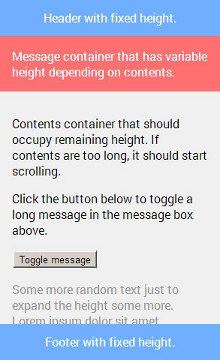
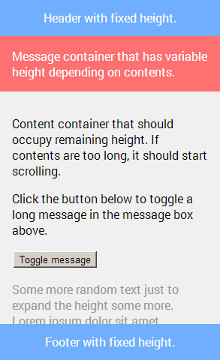
Added a discussion. Some fix on authorship.

diff --git a/_includes/themes/initialxy/post.html b/_includes/themes/initialxy/post.html
@@ -9,9 +9,9 @@
         <img class="avatar" src="https://s.gravatar.com/avatar/{{ site.authors[page.author].gravatar }}?s=80" />
         <small class="author">
             By <a href="{{ site.authors[page.author].about }}">{{ site.authors[page.author].display_name }}</a>
-            <a class="authorship" href="{{ site.authors[page.author].googleplus }}?rel=author">Authorship</a>
+            <a class="authorship" href="{{ site.authors[page.author].googleplus }}?rel=author"> </a>
         </small>
-        <small class="date">{{ page.date | date: "%B %-d %Y" }}</small>
+        <small class="updated">{{ page.date | date: "%B %-d %Y" }}</small>
     </div>
 
     {{ content }}

diff --git a/index.html b/index.html
@@ -16,7 +16,7 @@ title: Brain, what do you want to do tonight?
                 <a href="{{ BASE_PATH }}{{ post.url }}">{{ post.title }}</a>
             </h3>
             <small class="author">By <a href="{{ site.authors[post.author].about }}">{{ site.authors[post.author].display_name }}</a></small>
-            <small class="date">{{ post.date | date: "%B %-d %Y" }}</small>
+            <small class="updated">{{ post.date | date: "%B %-d %Y" }}</small>
 
             <p class="excerpt">{{ post.excerpt | markdownify }}</p>
             <a href="{{ BASE_PATH }}{{ post.url }}">Read More</a>

diff --git a/static/files/2013-11-24-flexbox-for-mobile-web-layout/flexbox/index.html b/static/files/2013-11-24-flexbox-for-mobile-web-layout/flexbox/index.html
@@ -26,7 +26,7 @@
 
             <div class="content">
                 <p>
-                    Contents container that should occupy remaining height.
+                    Content container that should occupy remaining height.
                     If contents are too long, it should start scrolling.
                 </p>
                 <p>

diff --git a/_posts/2013-11-24-flexbox-for-mobile-web-layout.md b/_posts/2013-11-24-flexbox-for-mobile-web-layout.md
@@ -8,12 +8,12 @@ tags: [CSS3, LESS, LESS Mixin, Mobile Web, Demo]
 ---
 {% include JB/setup %}
 
-I was reading about Flexbox earlier from [this article on CSS-Tricks](http://css-tricks.com/snippets/css/a-guide-to-flexbox/) and I found it extremely useful for a typical mobile web layout that you can see in below. The key feature from Flexbox that I found particularly useful is the ability to create containers that can **fill the remaining space**, which until recently, was achieved using JavaScript measuring and resizing on many mobile web framesworks (such as [Dojo](https://dojotoolkit.org/reference-guide/1.9/dojox/mobile/ScrollablePane.html)). The drawback with this is that not only is it slow and irresponsive, but also unable to detect size change of surrounding elements, making software far more complex. So I looked up the availability of Flexbox on [caniuse.com](http://caniuse.com/flexbox) and pleasantly found it to be quite ready (at least in my personal opinion). I managed to implement a Flexbox based layout for the mobile web app I was working on and tested it on my arsenal of test devices. In this article I'd like to share my results and discuss the differences between each mobile browser.
+I was reading about Flexbox earlier from [this article on CSS-Tricks](http://css-tricks.com/snippets/css/a-guide-to-flexbox/) and I found it extremely useful for a typical mobile web layout that you can see in below. The key feature from Flexbox that I found particularly useful is the ability to create containers that can **fill the remaining space**, which until recently, was achieved using JavaScript measuring and resizing on many mobile web framesworks (such as [Dojo](https://dojotoolkit.org/reference-guide/1.9/dojox/mobile/ScrollablePane.html)). The drawback with this JavaScript solution is that not only is it slow and irresponsive, but also unable to detect size change of surrounding elements, making software far more complex. So I looked up the availability of Flexbox on [caniuse.com](http://caniuse.com/flexbox) and pleasantly found it to be quite ready (at least in my personal opinion). I managed to implement a Flexbox based layout for a mobile web app I was working on and tested it on my arsenal of test devices. In this article I'd like to share my results and discuss the differences between each mobile browser. You may be aware that there are alternative mobile web layouts that are much more popular. I will discuss these near the end of this article.
 
 ![Flexbox layout](/static/images/2013-11-24-flexbox-for-mobile-web-layout/layout.jpg)
 <!--more-->
 
-The number one reason why I am so fond of Flexbox when it comes to moble web layout is because it can be used to make content container **expand to fill remaining space**, which has always been a challenge with CSS previously. (If contents are too long, content container should be scrollable, which I will cover in another article.) `display: block;` does not expand height, and `display: table;` requires many more wrappers and has difficulty creating a row that **fit variable content size** (see message container from above layout). I've been solutions involving JavaScript measurements on _window resize_ event, which, needless to say, has its own set of problems. This is where Flexbox comes in for rescue. First of all, I'd like to clarify that this whole article revolves around creating a layout similar to the one shown above, which covers vast majority of mobile web layouts. I'm not trying to create generic Flexbox mixins. (In case you ask, no, [Compass' Flexbox mixins](http://compass-style.org/reference/compass/css3/box/) don't work so well on mobile devices. I've tested them.)
+The number one reason why I am so fond of Flexbox when it comes to moble web layout is because it can be used to make content container **expand to fill remaining space**, which has always been a challenge with CSS previously. (If contents are too long, content container should be scrollable, which I will cover in another article.) `display: block;` does not expand height, and `display: table;` requires many more wrappers and has difficulty creating a row that **fit variable content size** (see message container from above layout). I've been solutions involving JavaScript measurements on `resize` event, which, needless to say, has its own set of problems. This is where Flexbox comes in for rescue. First of all, I'd like to clarify that this whole article revolves around creating a layout similar to the one shown above, which covers vast majority of mobile web layouts. I'm not trying to create generic Flexbox mixins. (In case you ask, no, [Compass' Flexbox mixins](http://compass-style.org/reference/compass/css3/box/) don't work so well on mobile devices. I've tested them.)
 
 Before we begin, please read [this article on CSS-Tricks](http://css-tricks.com/snippets/css/a-guide-to-flexbox/), which covers the concepts of Flexbox. This article assume you fundamental understanding of Flexbox. Now let's get started! The main concept for the above layout is to have a main container that has:
 
@@ -61,7 +61,7 @@ Content container needs to have:
 
 Notice that content container no longer has `flex-shrink: 1;`, `flex-basis: 0;` properties. `-webkit-box-flex: 1;` covers both grow and shrink behaviours.
 
-### Put Everything Together
+### Putting Everything Together
 
 Let's write some [LESS](http://lesscss.org/) mixins to put everything together! (I'm pretty sure you can easily rewrite the followings as [SASS](http://sass-lang.com/) mixins.)
 
@@ -102,3 +102,20 @@ Let's write some [LESS](http://lesscss.org/) mixins to put everything together! 
     }
 
 All you have to do now is to apply `.flex_parent` to your main container and expand the mixin `.flex(1, 1, 0);` in your content container's styles. You can see them all in action in this [demo](/static/files/2013-11-24-flexbox-for-mobile-web-layout/flexbox/).
+
+### Popular Alternatives
+
+If you've been a mobile web developer for a long time, you are probably aware of some of the more popular layouts. Currently the most commonly used one is to apply `position: fixed;` for header or footer, and have contents scroll with page body. Then add margin or padding that's equal to the constant height of header or footer. This is a perfectly fine approach and is more backward compatible. (As far as `position: fixed;` goes, which was MIA from mobile web browsers in the earlier years.) I have no objection to this approach as long as your requirements are fine with it. However while we are here, let's compare the differences.
+
+Pros:
+* More platform backward compatible. No dependencies on scrollable container. (Again, I will discuss this in another article.) No dependencies on Flexbox, but Flexbox support goes a little further than `position: fixed` support, so that's not really comparable as a pro.
+* Somewhat more efficient, as Flexbox has much more sophisticated size calculations.
+
+Cons:
+* Items above and below contents must have constant size, otherwise it gets really funky (could involve JavaScript).
+* Only one area is scrollable. If you are going to create a two-pane layout for tablet or slide-in menu for phone, you will have to create the secondary scrollable area with `position: fixed;` and make it scrollable with either JavaScript based scroll or native scroll using `overflow: scroll;` combined with `-webkit-overflow-scrolling: touch;` (which is also used with the Flexbox approach).
+* If you are building a [single-page application](http://en.wikipedia.org/wiki/Single-page_application), page transition could get **really funky** (speaking from my experience with hacking around [jQuery Mobile](http://jquerymobile.com/demos/1.2.0/docs/pages/page-transitions.html)), and you may have limited options.
+
+Another approach to mobile web layout dates even further back. You'd simply have footer and header at beginning and end of body. This approach obviously is the most primitive and have the most backward compatibility (because `position: fixed;` was MIA for long time). The obvious drawback is that header, footer and message will be scrolled out of view, which makes it difficult to provide quick-access menu items.
+
+In my personal opinion, Flexbox support is ready on mobile browsers (as we have discussed earlier), and native scrollable container is coming along nicely (not nicely enough for now, but the future is bright). Therefore I'd say the Flexbox based layout I have discussed in this article gives you the best control and options. It could be considered especially looking forward.

diff --git a/_posts/2013-11-22-minimal-modularized-web-components-demo.md b/_posts/2013-11-22-minimal-modularized-web-components-demo.md
@@ -14,7 +14,7 @@ A few months ago I came across the following video from this year's Google I/O. 
 
 Web Components were so cutting edge at the time (actually even at the time of this writing) that you literally have to download the nightly build of [Chromium](http://www.chromium.org/), enable bunch of experimental features explicitly, and you still only have a patchy support of it. In this post, I'd like to discuss the current state of Web Components, and show you a mininal modularized demo. I say modularized, I mean breaking it down into as many files as possible.<!--more-->
 
-First thing first, let's just get straight to the point. You can see my demo [here](/static/files/2013-11-22-minimal-modularized-web-components-demo/demo/). Again, you need to have the latest version of [Chromium](http://www.chromium.org/). (At time of this wirting, the latest Chromium is 33 and Chrome is 31.) Open _chrome://flags_ in address bar and enable:
+First thing first, let's just get straight to the point. You can see my demo [here](/static/files/2013-11-22-minimal-modularized-web-components-demo/demo/). Again, you need to have the latest version of [Chromium](http://www.chromium.org/). (At time of this wirting, the latest Chromium is 33 and Chrome is 31.) Open `chrome://flags` in address bar and enable:
 
 * Enable Experimental JavaScript
 * Enable experimental Web Platform features
@@ -34,7 +34,7 @@ Like I mentioned earlier, I modularized my demo as much as I could, that means I
     index.html <-- cus-widget.html <----- cus-widget.js
                                       +-- cus-widget.css
 
-The idea is that all index.html has to worry about is to import _cus-widget.html_ then it get simply use the `<cus-widget>hello<cus-widget/>` tag to its advantage. _cus-widget.html_ implements this rather simple custom widget and it impports JavaScript and CSS from separate files. Unfortunately this time around, I actually had less success than a few of months ago. First of all, [Polymer](http://www.polymer-project.org/) is a project that's intended to provide polyfill for Web Components. Few months ago, I _had_ to use Polymer because event the latest nightly build of Chromium didn't have all of the Web Components features (namely HTML import was missing), and I actually managed to get it to work somewhat close to idea setup. Today, I got the latest version of Polymer (0.0.20131107) and I immediately hit a [bug](https://github.com/Polymer/polymer/issues/290). But that's ok, I easily worked around it. But now I noticed that the styling for my custom widget was missing. Now ideally, I should be able to import CSS as part of the template, as per this [HTML5Rocks article](http://www.html5rocks.com/en/tutorials/webcomponents/imports/):
+The idea is that all index.html has to worry about is to import `cus-widget.html` then it get simply use the `<cus-widget>hello<cus-widget/>` tag to its advantage. `cus-widget.html` implements this rather simple custom widget and it impports JavaScript and CSS from separate files. Unfortunately this time around, I actually had less success than a few of months ago. First of all, [Polymer](http://www.polymer-project.org/) is a project that's intended to provide polyfill for Web Components. Few months ago, I _had_ to use Polymer because event the latest nightly build of Chromium didn't have all of the Web Components features (namely HTML import was missing), and I actually managed to get it to work somewhat close to idea setup. Today, I got the latest version of Polymer (0.0.20131107) and I immediately hit a [bug](https://github.com/Polymer/polymer/issues/290). But that's ok, I easily worked around it. But now I noticed that the styling for my custom widget was missing. Now ideally, I should be able to import CSS as part of the template, as per this [HTML5Rocks article](http://www.html5rocks.com/en/tutorials/webcomponents/imports/):
 
     <template>
         <link rel="stylesheet" href="polymer-ui-tabs.css">
@@ -42,7 +42,7 @@ The idea is that all index.html has to worry about is to import _cus-widget.html
         <shadow></shadow>
     </template>
 
-This should ensure an isolated CSS name space for the custom widget. So I originally had this in my _cus-widget.html_:
+This should ensure an isolated CSS name space for the custom widget. So I originally had this in my `cus-widget.html`:
 
     <template id="cus-widget_template">
         <link rel="stylesheet" href="cus-widget.css"></link>
@@ -52,7 +52,7 @@ This should ensure an isolated CSS name space for the custom widget. So I origin
         </div>
     </template>
 
-My _cus-widget.css_ looked like this:
+My `cus-widget.css` looked like this:
 
     div {
         border: 1px solid red;
@@ -60,20 +60,20 @@ My _cus-widget.css_ looked like this:
         display: block;
     }
 
-This was all working before, and now it stopped working. So I scrolled down some more on the same HTML5Rocks article to find some clues. Appearently I could grab my CSS import from my _cus-widget.html_ and dump it into the main document, _index.html_. I had to add the following to my _cus-widget.js_:
+This was all working before, and now it stopped working. So I scrolled down some more on the same HTML5Rocks article to find some clues. Appearently I could grab my CSS import from my `cus-widget.html` and dump it into the main document, `index.html`. I had to add the following to my `cus-widget.js`:
 
     var styleSheet = document.currentScript.ownerDocument
             .querySelector("link[rel='stylesheet'][href$='cus-widget.css']");
     document.head.appendChild(styleSheet.cloneNode(true));
 
-At this point I hit yet another weird Polymer bug. So I removed Polymer from _index.html_. (In case you are wondering if my original code would have worked without Polymer, the answer is no, it still didn't import my style sheet on Chromium 33.) But then the above piece of code failed to find my style sheet. So I had to move the CSS import out of `<tempate>` tag and into `<head>` tag like so:
+At this point I hit yet another weird Polymer bug. So I removed Polymer from `index.html`. (In case you are wondering if my original code would have worked without Polymer, the answer is no, it still didn't import my style sheet on Chromium 33.) But then the above piece of code failed to find my style sheet. So I had to move the CSS import out of `<tempate>` tag and into `<head>` tag like so:
 
     <head>
         <title>CusWidget</title>
         <link rel="stylesheet" href="cus-widget.css"></link>
     </head>
 
-Finally my CSS is imported (as evident on the _Network_ tab of Chromium's debugger). But I still don't see my style. I figured at this point, it's just a main document style sheet, so I gotta style my _cus-widget_ like this:
+Finally my CSS is imported (as evident on the _Network_ tab of Chromium's debugger). But I still don't see my style. I figured at this point, it's just a main document style sheet, so I gotta style my `cus-widget.css` like this:
 
     cus-widget {
         border: 1px solid red;
@@ -81,6 +81,6 @@ Finally my CSS is imported (as evident on the _Network_ tab of Chromium's debugg
         display: block;
     }
 
-Yay! It's finally showing everything correctly, or is it? There's definitely something fundamentally **wrong** with this demo if you haven't noticed. Now my CSS is just a main document style sheet like every other imported CSS, which completely defeats the purpose of having CSS for Shadow DOMs. There's no longer an isolated name space for _cus-widget.css_, and as you can see earlier, it can no longer select and style Shadown DOMs.
+Yay! It's finally showing everything correctly, or is it? There's definitely something fundamentally **wrong** with this demo if you haven't noticed. Now my CSS is just a main document style sheet like every other imported CSS, which completely defeats the purpose of having CSS for Shadow DOMs. There's no longer an isolated name space for `cus-widget.css`, and as you can see earlier, it can no longer select and style Shadown DOMs.
 
 In conclusion, Web Components is very promising, but it's most defintely still too immature for prime time. I shall wait patiently for it to become production-ready.

diff --git a/_posts/2013-11-21-using-weinre.md b/_posts/2013-11-21-using-weinre.md
@@ -15,7 +15,7 @@ tags: [JavaScript, Weinre, Debugging]
 This post assumes you already know the basics of getting Weinre to run. I won't cover anything related to installation of start up. But before you start there's a few very important things you need to remember. I've been using version 2.0.0 at time of this writing.
 
 * Weinre is **not** a JavaScript debugger, because Weinre itself is JavaScript that runs in the same environment as others, it is incapable of pausing JavaScript execution on its will.
-* Weinre does not print JavaScript errors. Again, due to the fact that Weinre is just like every other piece of JavaScript that's running in your environment, it cannot intercept JavaScript Errors such as _SyntaxError_ or _ReferenceError_. So if things just stopped working and Weinre console didn't print anything, you might just have ran into an error but Weinre couldn't tell you. It is a good idea to run your code on a desktop browser (if possible) and watch desktop browser's console to cache these errors.
+* Weinre does not print JavaScript errors. Again, due to the fact that Weinre is just like every other piece of JavaScript that's running in your environment, it cannot intercept JavaScript Errors such as `SyntaxError` or `ReferenceError`. So if things just stopped working and Weinre console didn't print anything, you might just have ran into an error but Weinre couldn't tell you. It is a good idea to run your code on a desktop browser (if possible) and watch desktop browser's console to cache these errors.
 
 ### Issues
 
@@ -30,4 +30,4 @@ This post assumes you already know the basics of getting Weinre to run. I won't 
 
 ### Tips
 
-Aside from the tips I have already mentioned above and some common Chrome tricks like _$0_, I want to note that even though Weinre does not provide a JavaScript debugger, it at least provides a functional JavaScript console that runs in the same environment as your device. That means you can use it to inspect APIs, DOMs and your JavaScript objects. Oftentimes your JavaScript variables and objects are not available to the global scope, but you could try to expose the ones you need in your code to global score by assigning them to a global variable without using the _var_ keyboard eg. `g = this;`. Then you can inspect them in the console.
+Aside from the tips I have already mentioned above and some common Chrome tricks like `$0`, I want to note that even though Weinre does not provide a JavaScript debugger, it at least provides a functional JavaScript console that runs in the same environment as your device. That means you can use it to inspect APIs, DOMs and your JavaScript objects. Oftentimes your JavaScript variables and objects are not available to the global scope, but you could try to expose the ones you need in your code to global score by assigning them to a global variable without using the `var` keyboard eg. `g = this;`. Then you can inspect them in the console.
